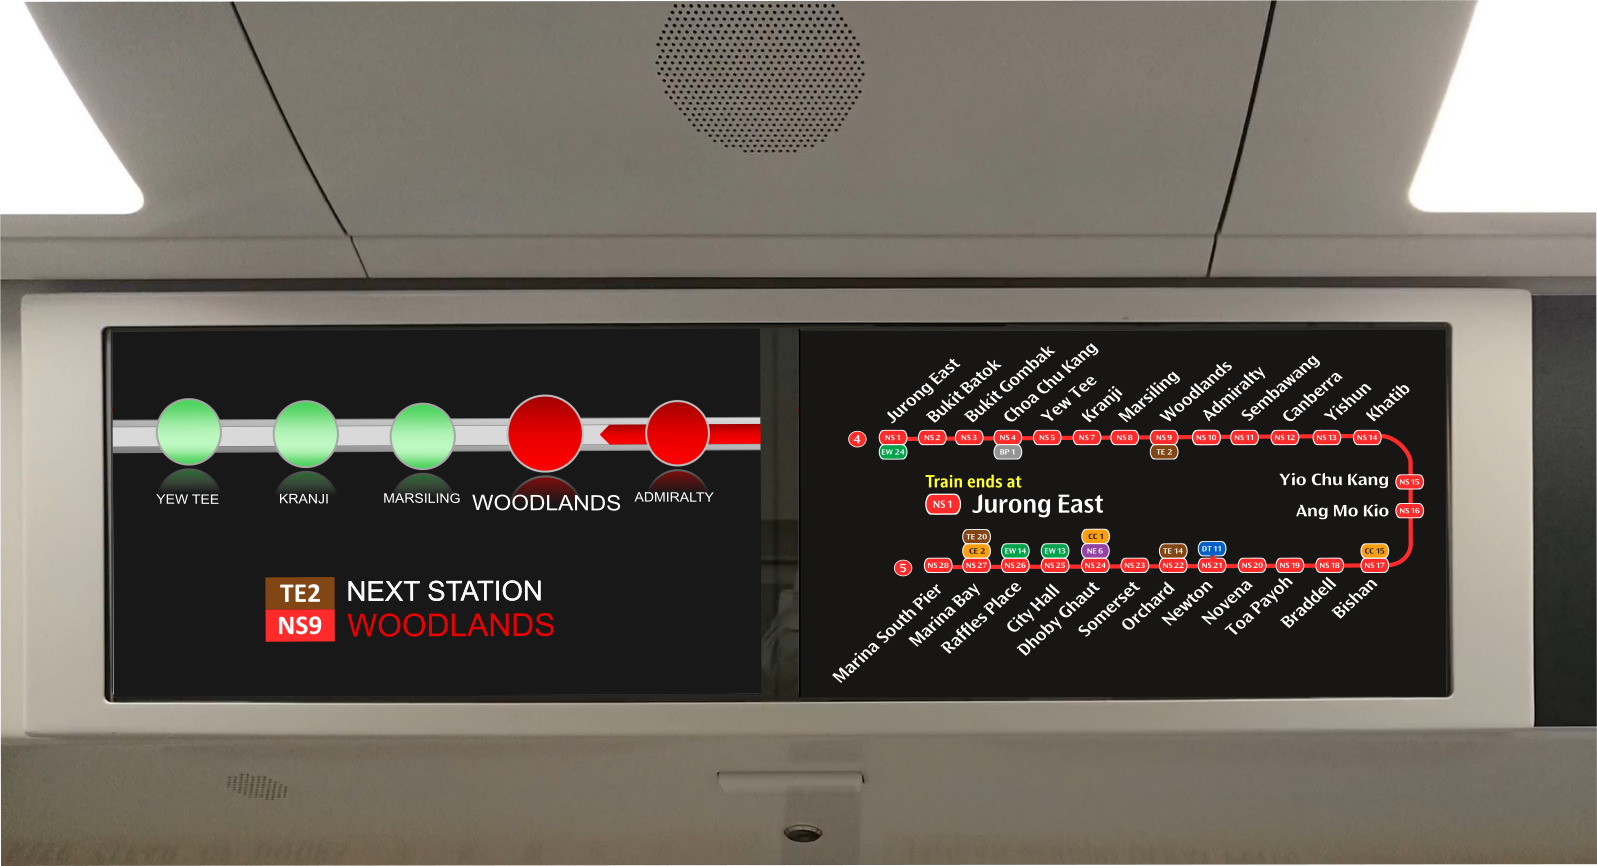
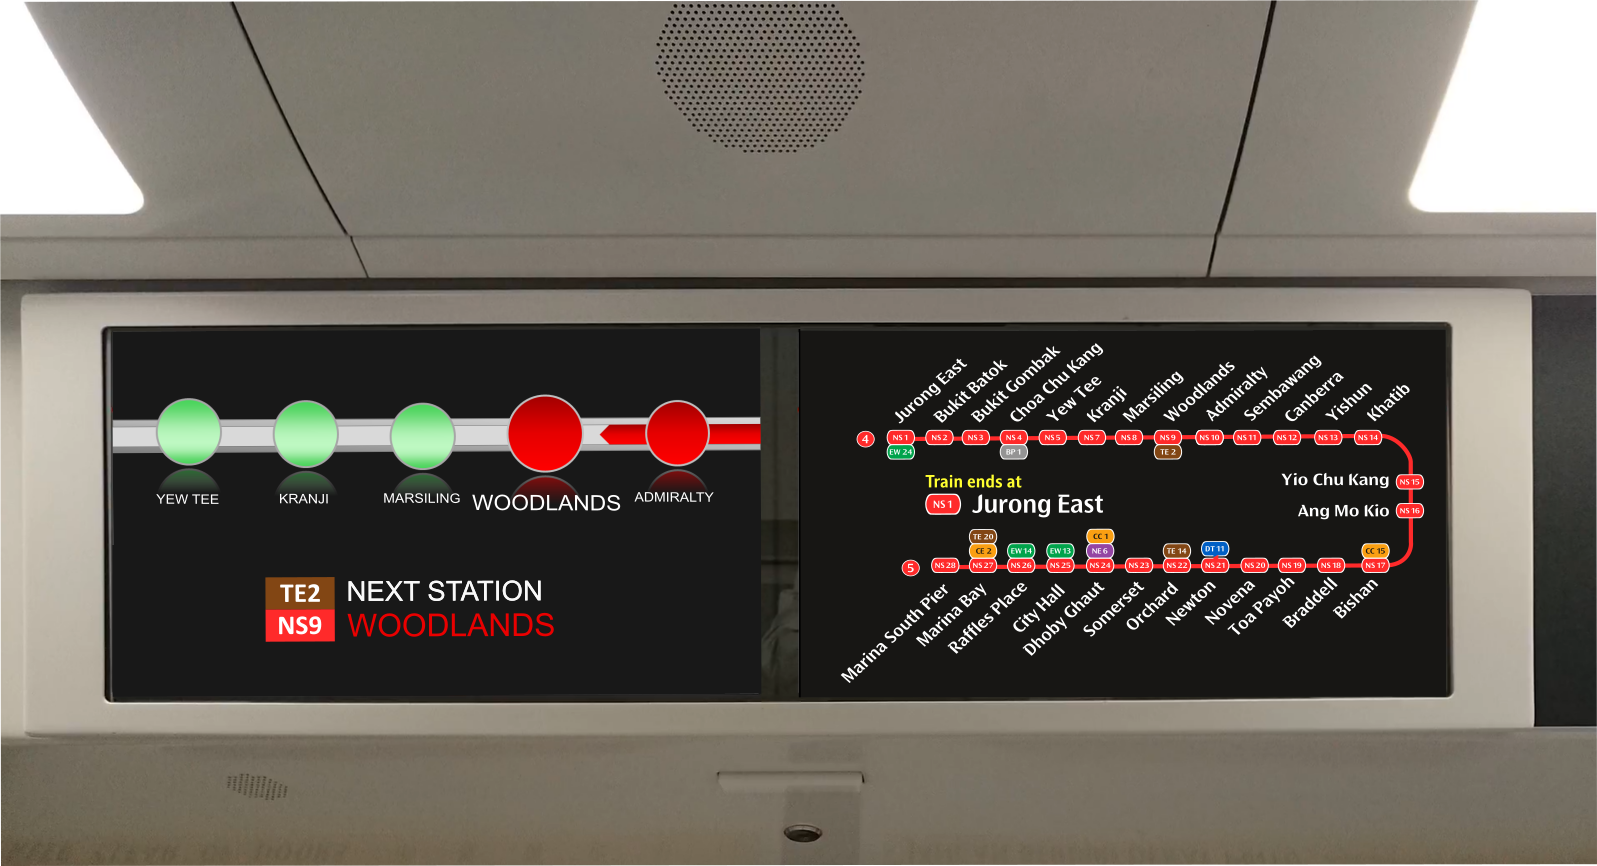
2025-09 Cumulative Update for Version 5.0 (5.1.3)

Changed region(s): [[0.5216, 0.4053, 0.8898, 0.5924], [0.5523, 0.5924, 0.8898, 0.7483], [0.5216, 0.7483, 0.5523, 0.7794]]

diff --git a/eicw/eicw-4.html b/eicw/eicw-4.html
@@ -302,6 +302,19 @@
               <div class="row">
                 <div class="column column-pic">
                   <figcaption>
+                    <a href="img/staris2-B.png" id="staris2-b" class="portfolio-img ">
+                      <img src="img/staris2-B.png" id="staris2-b-img" class="img-fluid cp-img" alt="staris2-b">
+                    </a>
+                    <p style="text-align: center;">Current STARiS 2.0 UI, on most of the KSFB/C Trains. <b>Older</b>
+                      Line
+                      Diagram Layout.
+                    </p>
+                  </figcaption>
+                </div>
+
+
+                <div class="column column-pic">
+                  <figcaption>
                     <a href="img/staris2-C.png" id="staris2-c" class="portfolio-img ">
                       <img src="img/staris2-C.png" id="staris2-c-img" class="img-fluid cp-img" alt="staris2-c">
                     </a>
@@ -313,22 +326,22 @@
 
                 <div class="column column-pic">
                   <figcaption>
-                    <a href="img/staris2-B.png" id="staris2-b" class="portfolio-img ">
-                      <img src="img/staris2-B.png" id="staris2-b-img" class="img-fluid cp-img" alt="staris2-b">
+                    <a href="img-2/staris2-D.png" id="staris2-b" class="portfolio-img ">
+                      <img src="img-2/staris2-D.png" id="staris2-b-img" class="img-fluid cp-img" alt="staris2-b">
                     </a>
-                    <p style="text-align: center;">Current STARiS 2.0 UI, on the KSFC Trains. <b>Older</b> Line
-                      Diagram Layout.
+                    <p style="text-align: center;">Revamped STARiS 2.0 UI, on one of the KSFC Trains. <b>Updated</b>
+                      Line
+                      Diagram Layout and <b>New</b> Next Station Interface
                     </p>
                   </figcaption>
                 </div>
 
                 <div class="column column-pic">
                   <figcaption>
-                    <a href="img-2/staris2-D.png" id="staris2-b" class="portfolio-img ">
-                      <img src="img-2/staris2-D.png" id="staris2-b-img" class="img-fluid cp-img" alt="staris2-b">
+                    <a href="img-2/staris2-red.png" id="staris2-b" class="portfolio-img ">
+                      <img src="img-2/staris2-red.png" id="staris2-b-img" class="img-fluid cp-img" alt="staris2-b">
                     </a>
-                    <p style="text-align: center;">Revamped STARiS 2.0 UI, on one of the KSFC Trains. <b>New</b> Line
-                      Diagram Layout and Next Station Interface
+                    <p style="text-align: center;">Revamped STARiS 2.0 UI. <b>Proposed Redesign</b>
                     </p>
                   </figcaption>
                 </div>
